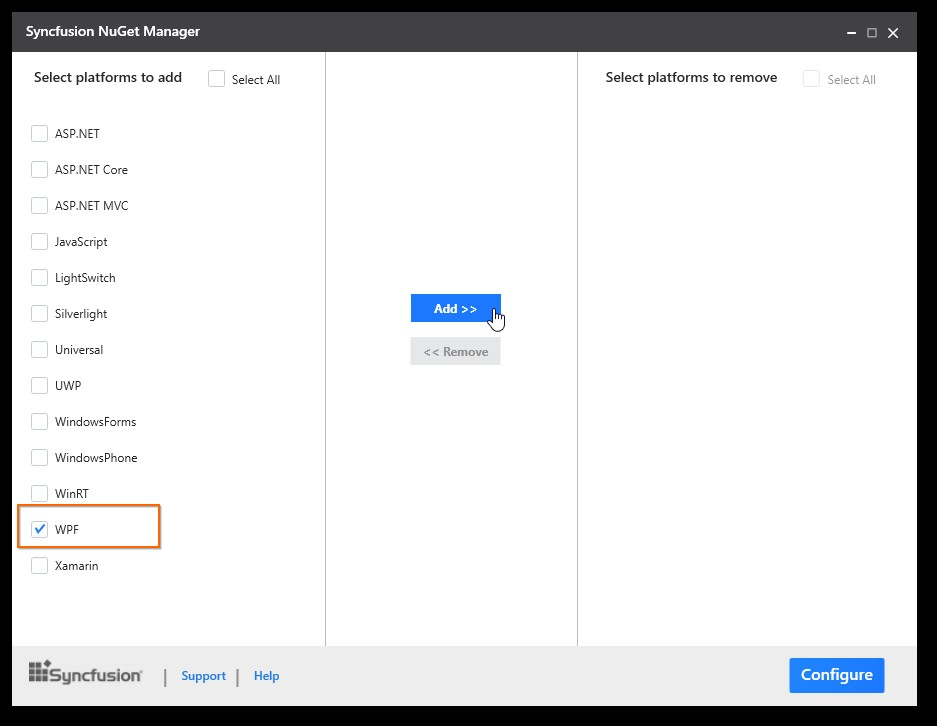
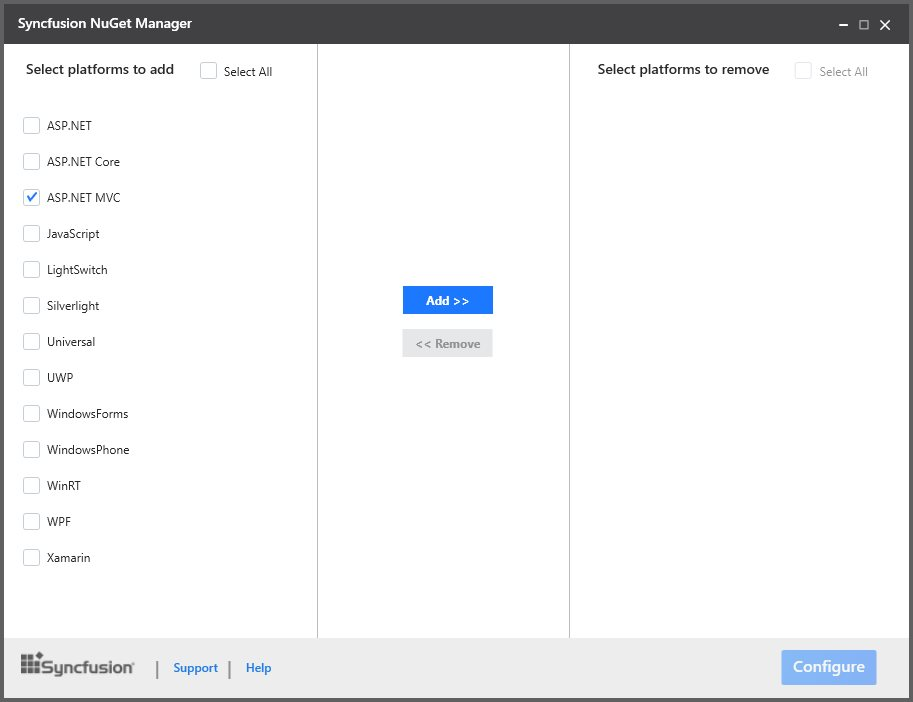
EXT-2153 Modified Syncfusion Nuget Manager Screenshot in NuGet Configuration (ASP.NET MVC)

Changed region(s): [[0.0, 0.0, 1.0, 1.0], [0.4294, 0.3889, 0.552, 0.4487], [0.4294, 0.4786, 0.552, 0.5085]]

diff --git a/aspnetmvc/Installation-and-Deployment.md b/aspnetmvc/Installation-and-Deployment.md
@@ -32,7 +32,7 @@ The following steps help you configure Syncfusion NuGet Packages with a URL.
 1. **Syncfusion NuGet Manager** is allows you to **add** the Syncfusion NuGet sources (for available platforms) to NuGet Package Manager. Download the [Syncfusion NuGet Manager](http://www.syncfusion.com/downloads/support/directtrac/general/ze/SyncfusionNugetManager-1610952973.zip) utility.
 2. Extract zip file and run the SyncfusionNuGetManager.exe
 3. Syncfusion NuGet Manager Window will be opened.
-4. Select the platform **WPF** (or required platform) from **“Select platforms to add”** (Left side of the window) column and click **Add>>** button. Then click **Configure** button.
+4. Select the platform **ASP.NET MVC** from **“Select platforms to add”** (Left side of the window) column and click **Add>>** button. Then click **Configure** button.
 
    ![](installation-and-deployment_images/Syncfusion_NuGet_Manager_img1.jpg)
 
